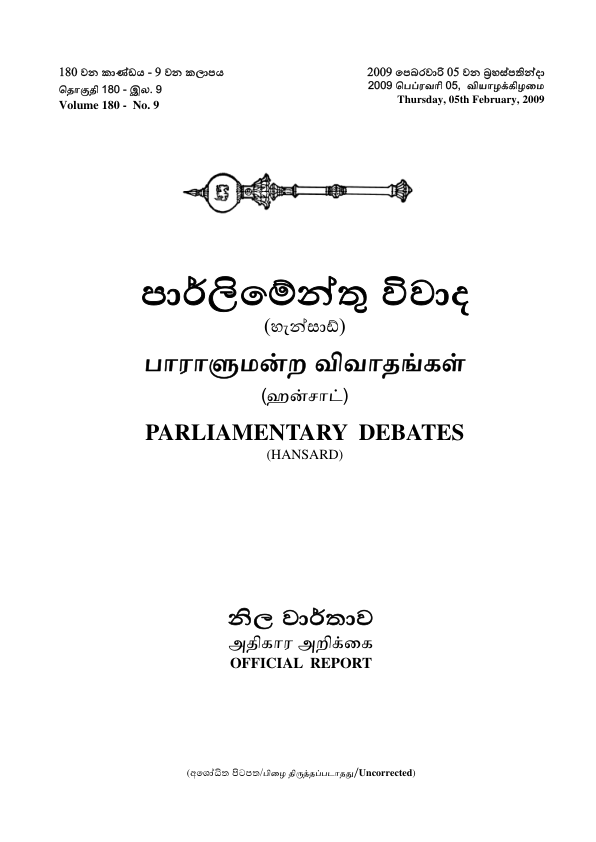
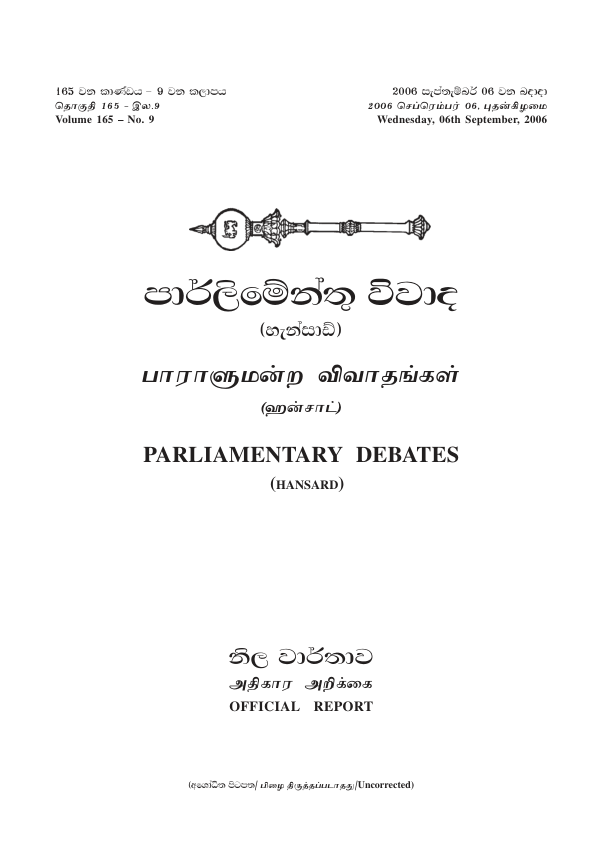
🤖 [pipeline.yml] 2025-09-17-1210

diff --git a/README.md b/README.md
@@ -1,13 +1,13 @@
 # 🇱🇰 #SriLanka Hansard `Dataset`
 
-![LastUpdated](https://img.shields.io/badge/last_updated-2025--09--17_17:00:42-green)
-![DatasetSize](https://img.shields.io/badge/dataset_size-11.3_GB-green)
+![LastUpdated](https://img.shields.io/badge/last_updated-2025--09--17_17:39:53-green)
+![DatasetSize](https://img.shields.io/badge/dataset_size-12.4_GB-green)
 
 📜 **1,661** documents, from **2006-02-01** to **2025-09-10**, scraped from **[https://www.parliament.lk/en/business-of-parliament/hansards](https://www.parliament.lk/en/business-of-parliament/hansards)**.
 
-📒 PDFs have been downloaded for **1,414** (**85%**) documents.
+📒 PDFs have been downloaded for **1,623** (**98%**) documents.
 
-📚 Complete [Dataset](https://github.com/nuuuwan/lk_hansard/tree/data) (**11.3 GB**)
+📚 Complete [Dataset](https://github.com/nuuuwan/lk_hansard/tree/data) (**12.4 GB**)
  - 🆓 Public data, & fully open-source.
  - 🙏 Please share & fork!
 
@@ -46,7 +46,7 @@
 
 ![PDF Preview](images/pdf_preview.png)
 
-[More details](https://github.com/nuuuwan/lk_hansard/tree/data/data/lk_hansard/2000s/2009/2009-02-05-2009-02-05)
+[More details](https://github.com/nuuuwan/lk_hansard/tree/data/data/lk_hansard/2000s/2006/2006-09-06-2006-09-06)
 
 ## 🆕 20 Latest documents
 
